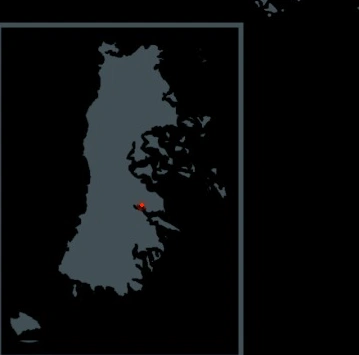
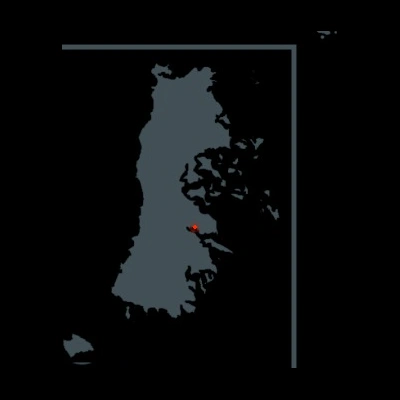
fix(tienda): refinar encuadre planetario y silueta de chiloe en mapa editorial

Changed region(s): [[0.0, 0.062, 0.766, 1.0], [0.7047, 0.0, 0.766, 0.062], [0.7967, 0.062, 0.8273, 0.093]]

diff --git a/apps/tienda/components/shop/mapa-identidad-hero.tsx b/apps/tienda/components/shop/mapa-identidad-hero.tsx
@@ -11,8 +11,6 @@ import {
   Check,
   Globe,
   Compass,
-  ArrowLeft,
-  Maximize2,
 } from 'lucide-react';
 import L from 'leaflet';
 import 'leaflet/dist/leaflet.css';
@@ -282,77 +280,64 @@ export function MapaIdentidadHero({
       <div className="editorial-container mb-12">
         <div className="enj-contact-map-container relative isolate z-0 overflow-hidden rounded-2xl md:rounded-3xl border border-border/70 bg-background shadow-2xl ring-1 ring-border/30 w-full h-[480px] sm:h-[540px] md:h-[600px]">
           {/* ══════════════════════════════════════════════════════════════════════
-              VISTA 1: ESCALA PLANETARIA (POR DEFECTO - CERO CARGA DE TILES)
+              VISTA 1: ESCALA PLANETARIA (POR DEFECTO - MAPA COMPLETO SIN RECORTES)
               ══════════════════════════════════════════════════════════════════════ */}
           {viewMode === 'planetary' && (
             <div className="relative w-full h-full bg-background overflow-hidden select-none flex items-center justify-center">
-              {/* SVG responsivo con el planisferio vectorial y elementos interactivos */}
+              {/* SVG responsivo con el planisferio completo sin recortes en el extremo sur */}
               <svg
-                viewBox="0 0 1014 570"
+                viewBox="0 0 1014 630"
                 className="w-full h-full object-contain pointer-events-none"
                 preserveAspectRatio="xMidYMid meet"
                 aria-label="Mapa planisferio de ubicación de Pureo, Chiloé"
               >
-                {/* Capa base de continentes: Limpia, sin nombres ni fronteras */}
+                {/* Capa base de continentes: Completa (Groenlandia a Cabo de Hornos), limpia sin nombres ni fronteras */}
                 <image
                   href="/assets/editorial/mapa-planisferio-continentes.webp"
                   x="0"
                   y="0"
                   width="1014"
-                  height="570"
+                  height="630"
                   preserveAspectRatio="xMidYMid meet"
                 />
 
-                {/* Sutil línea punteada del Paralelo 42°S (y = 539) */}
+                {/* Sutil línea punteada del Paralelo 42°S (y = 529) sin textos ruidosos */}
                 <line
                   x1="0"
-                  y1="539"
+                  y1="529"
                   x2="1014"
-                  y2="539"
-                  stroke="hsl(44 85% 46% / 0.45)"
+                  y2="529"
+                  stroke="hsl(44 85% 46% / 0.4)"
                   strokeWidth="1.2"
                   strokeDasharray="4 4"
                 />
 
-                {/* Etiqueta elegante del Paralelo 42°S en la margen izquierda */}
-                <text
-                  x="16"
-                  y="533"
-                  fill="hsl(44 85% 46% / 0.85)"
-                  fontSize="9.5"
-                  fontFamily="monospace"
-                  letterSpacing="0.18em"
-                  fontWeight="600"
-                >
-                  PARALELO 42°S · LATITUD AUSTRAL
-                </text>
-
-                {/* Arco conector punteado que desciende de Chiloé hacia el Inset inferior */}
+                {/* Arco conector punteado sutil que desciende hacia el recuadro inferior */}
                 <path
-                  d="M 269.4 546 C 269.4 560, 200 560, 160 560"
+                  d="M 269.4 536 C 269.4 560, 200 560, 160 560"
                   fill="none"
-                  stroke="hsl(44 85% 46% / 0.35)"
+                  stroke="hsl(44 85% 46% / 0.3)"
                   strokeWidth="1"
                   strokeDasharray="3 3"
                 />
 
-                {/* Faro concéntrico con pulso oro miel sobre Chiloé (x=269.4, y=539) */}
+                {/* Faro concéntrico con pulso oro miel sobre Chiloé (x=269.4, y=529) */}
                 <g className="pointer-events-auto">
                   {/* Aro expansivo con pulso CSS */}
                   <circle
                     cx="269.4"
-                    cy="539"
+                    cy="529"
                     r="16"
                     fill="hsl(44 85% 46% / 0.2)"
                     stroke="hsl(44 85% 46% / 0.6)"
                     strokeWidth="1.2"
                     className="animate-ping"
-                    style={{ transformOrigin: '269.4px 539px', animationDuration: '2.8s' }}
+                    style={{ transformOrigin: '269.4px 529px', animationDuration: '2.8s' }}
                   />
                   {/* Halo medio */}
                   <circle
                     cx="269.4"
-                    cy="539"
+                    cy="529"
                     r="11"
                     fill="hsl(44 85% 46% / 0.3)"
                     stroke="hsl(44 85% 46% / 0.8)"
@@ -361,7 +346,7 @@ export function MapaIdentidadHero({
                   {/* Núcleo dorado oro miel */}
                   <circle
                     cx="269.4"
-                    cy="539"
+                    cy="529"
                     r="4.5"
                     fill="hsl(44 85% 46%)"
                     stroke="#ffffff"
@@ -370,7 +355,7 @@ export function MapaIdentidadHero({
                   {/* Rótulo superior sobre Chiloé */}
                   <text
                     x="269.4"
-                    y="518"
+                    y="508"
                     textAnchor="middle"
                     fill="#f5f0e8"
                     fontSize="10"
@@ -383,7 +368,7 @@ export function MapaIdentidadHero({
                 </g>
               </svg>
 
-              {/* ── Recuadro Inset en la esquina inferior izquierda: Isla Grande de Chiloé ── */}
+              {/* ── Recuadro Inset: UN SOLO MARCO limpio, sin cuadros anidados ni textos redundantes ── */}
               <div
                 role="button"
                 tabIndex={0}
@@ -396,49 +381,30 @@ export function MapaIdentidadHero({
                 }}
                 title={locale === 'en' ? 'Click to explore satellite view of Pureo' : 'Toca para explorar el predio en vista satelital'}
                 aria-label={locale === 'en' ? 'Explore Pureo in satellite' : 'Explorar Pureo en satélite'}
-                className="absolute bottom-3 left-3 sm:bottom-5 sm:left-5 z-20 w-[170px] sm:w-[210px] md:w-[240px] rounded-xl border border-border/80 bg-background/92 backdrop-blur-md p-2.5 sm:p-3 shadow-2xl group cursor-pointer transition-all duration-300 hover:border-primary/70 hover:shadow-[0_0_28px_rgba(201,162,39,0.18)] active:scale-[0.98]"
+                className="absolute bottom-3 left-3 sm:bottom-5 sm:left-5 z-20 w-[130px] sm:w-[160px] md:w-[185px] aspect-square rounded-lg border border-[#38434D]/80 bg-black/95 shadow-2xl p-1.5 overflow-hidden group cursor-pointer transition-all duration-300 hover:border-primary/80 hover:shadow-[0_0_24px_rgba(201,162,39,0.15)] active:scale-[0.98]"
               >
-                {/* Cabecera del Inset */}
-                <div className="flex items-center justify-between gap-1 mb-1.5 border-b border-border/50 pb-1.5">
-                  <span className="text-[9px] sm:text-[10px] font-mono uppercase tracking-widest text-primary font-semibold flex items-center gap-1.5">
-                    <span className="w-1.5 h-1.5 rounded-full bg-primary animate-pulse" />
-                    ISLA DE CHILOÉ
-                  </span>
-                  <span className="text-[9px] font-mono text-muted-foreground group-hover:text-primary transition-colors flex items-center gap-0.5">
-                    <Maximize2 className="w-2.5 h-2.5" />
-                  </span>
-                </div>
-
-                {/* Silueta de Chiloé con punto en Pureo */}
-                <div className="relative aspect-square w-full rounded-lg overflow-hidden bg-black/60 border border-border/40 mb-1.5">
+                {/* Silueta limpia de Chiloé en marco único sin doble borde */}
+                <div className="relative w-full h-full overflow-hidden">
                   <Image
                     src="/assets/editorial/mapa-chiloe-silueta.webp"
                     alt="Silueta geográfica de la Isla Grande de Chiloé"
                     fill
-                    sizes="(max-width: 640px) 180px, 240px"
-                    className="object-contain p-1 opacity-90 group-hover:opacity-100 transition-opacity"
+                    sizes="(max-width: 640px) 140px, 185px"
+                    className="object-contain opacity-95 group-hover:opacity-100 transition-opacity"
                   />
-                  {/* Punto y pulso radiante en Pureo (Queilén: left 39.4%, top 57.7%) */}
+                  {/* Punto y pulso radiante en Pureo (Queilén: left 48.6%, top 56.7%) */}
                   <div
                     className="absolute -translate-x-1/2 -translate-y-1/2 pointer-events-none"
-                    style={{ left: '39.4%', top: '57.7%' }}
+                    style={{ left: '48.6%', top: '56.7%' }}
                   >
                     <span className="absolute -inset-2 rounded-full bg-primary/40 animate-ping" />
                     <span className="block w-2.5 h-2.5 rounded-full bg-primary border border-white shadow-[0_0_10px_rgba(212,160,23,1)]" />
                   </div>
                   <span
                     className="absolute text-[8.5px] sm:text-[9px] font-mono text-primary font-semibold drop-shadow-md whitespace-nowrap"
-                    style={{ left: '44%', top: '54%' }}
+                    style={{ left: '53%', top: '53%' }}
                   >
                     Pureo
-                  </span>
-                </div>
-
-                {/* Pie del Inset con coordenadas y llamada de acción */}
-                <div className="flex items-center justify-between text-[9px] sm:text-[10px] text-muted-foreground font-mono pt-1">
-                  <span>42°51'18"S</span>
-                  <span className="text-primary font-sans font-medium flex items-center gap-0.5 group-hover:underline">
-                    Satélite →
                   </span>
                 </div>
               </div>
@@ -457,16 +423,6 @@ export function MapaIdentidadHero({
                   isInteracting ? 'pointer-events-auto' : 'pointer-events-none sm:pointer-events-auto'
                 }`}
               />
-
-              {/* Botón flotante inferior para volver a la escala planetaria */}
-              <button
-                type="button"
-                onClick={() => setViewMode('planetary')}
-                className="absolute bottom-4 left-4 z-[1050] flex items-center gap-2 rounded-full bg-background/90 backdrop-blur-md px-4 py-2 border border-border/80 shadow-xl text-xs font-medium text-foreground hover:text-primary transition-all active:scale-95"
-              >
-                <ArrowLeft className="w-3.5 h-3.5 text-primary" />
-                <span>{locale === 'en' ? 'Back to Planetary view' : 'Volver al Planeta'}</span>
-              </button>
 
               {/* Touch guard para móvil */}
               {!isInteracting && (
@@ -526,7 +482,7 @@ export function MapaIdentidadHero({
               CONTROLES FLOTANTES DERECHA (SIEMPRE VISIBLES - z-[1050])
               ══════════════════════════════════════════════════════════════════════ */}
           <div className="absolute top-4 right-4 z-[1050] flex items-center gap-2">
-            {/* Selector de Perspectiva: El Planeta vs Satélite Pureo */}
+            {/* Selector de Perspectiva: El Planeta vs Satélite Pureo (único switch de modo) */}
             <div className="flex rounded-full bg-background/90 backdrop-blur-md p-1 border border-border/70 shadow-lg">
               <button
                 type="button"
